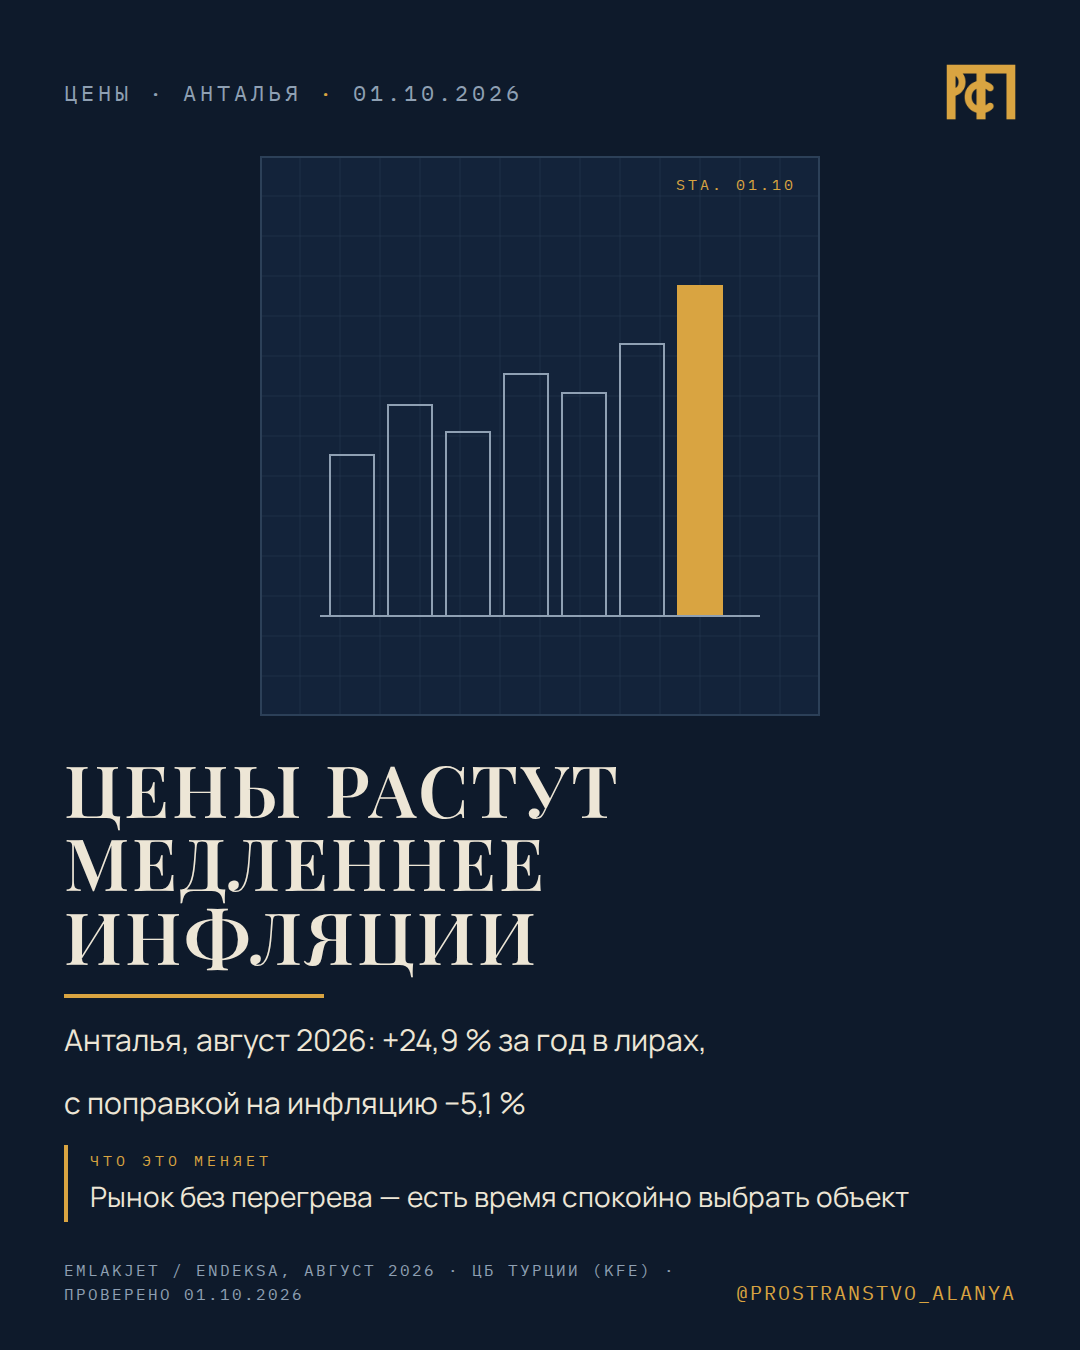
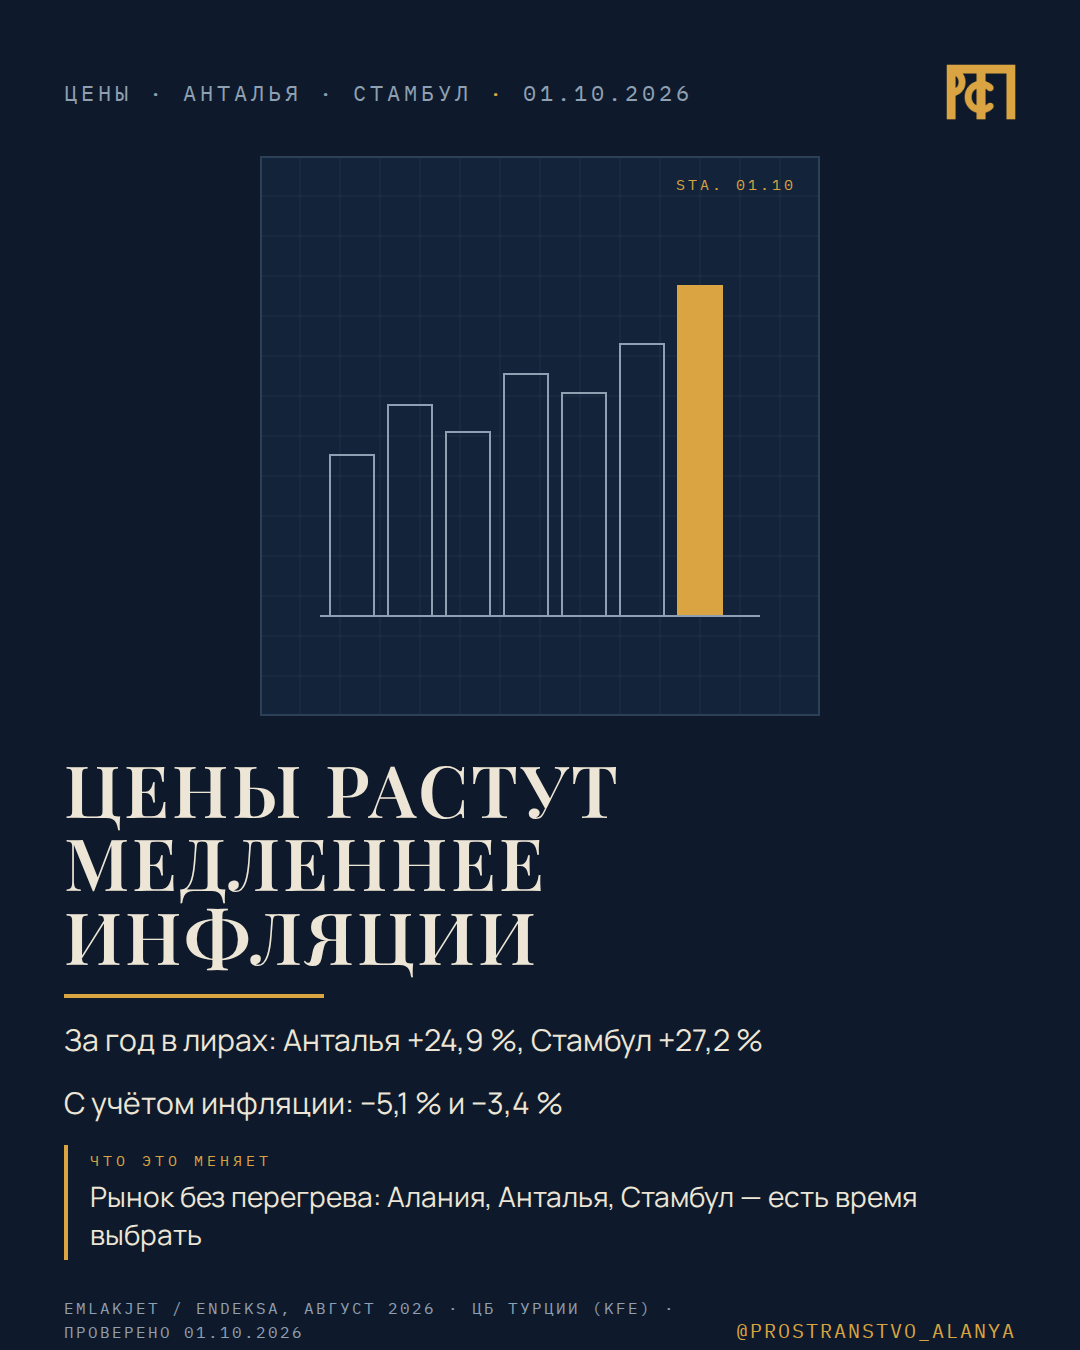
Карточка: цены и инфляция — добавлен Стамбул

diff --git a/turkey-news/nakopitel.md b/turkey-news/nakopitel.md
@@ -9,7 +9,7 @@
 
 | Дата | Тема поста | Карточка | Первоисточник |
 |---|---|---|---|
-| 01.10.2026 | Цены на жильё растут медленнее инфляции: Анталья, август 2026 — +24,9 % за год в лирах, −5,1 % реально, средняя цена 6,132 млн TL; Турция по ЦБ (KFE) +23 % / −6,5 % реально | `turkey-cards/posts/2026-10-01-tseny-i-inflyatsiya-*` | Emlakjet/Endeksa, август 2026 — [Foreks 21.09.2026](https://www.foreks.com/haber/detay/6ab115f395016b5817e5d905/PICNEWS/tr/ortalama-konut-satis-fiyati-5-3-milyon-tl-yi-asti-reel-kayip-suruyor-21-09-26/); ЦБ Турции KFE за август (опубл. 16.09.2026) — [Karar](https://www.karar.com/ekonomi-haberleri/tcmb-konut-fiyatlarinda-yillik-artis-yuzde-23-oldu-2072241) |
+| 01.10.2026 | Цены на жильё растут медленнее инфляции: Анталья, август 2026 — +24,9 % за год в лирах, −5,1 % реально, средняя цена 6,132 млн TL; Стамбул +27,2 % / −3,4 % реально (→ 01.10: Стамбул добавлен в пост по просьбе владельца); Турция по ЦБ (KFE) +23 % / −6,5 % реально | `turkey-cards/posts/2026-10-01-tseny-i-inflyatsiya-*` | Emlakjet/Endeksa, август 2026 — [Foreks 21.09.2026](https://www.foreks.com/haber/detay/6ab115f395016b5817e5d905/PICNEWS/tr/ortalama-konut-satis-fiyati-5-3-milyon-tl-yi-asti-reel-kayip-suruyor-21-09-26/); ЦБ Турции KFE за август (опубл. 16.09.2026) — [Karar](https://www.karar.com/ekonomi-haberleri/tcmb-konut-fiyatlarinda-yillik-artis-yuzde-23-oldu-2072241) |
 | 30.09.2026 | Гражданство: отчёт об оценке может готовить любая компания с лицензией SPK (TDUB + TADEBİS), монополия GEDAŞ с 03.2024 снята; порог 400 000 $ без изменений | `turkey-cards/posts/2026-09-30-vybor-otsenshchika-*` | TKGM, изменение циркуляра 2024/2 (олур 28.09.2026; решение Минэкологии № 21900458 от 18.09.2026) — [Memurlar.net, 29.09.2026](https://www.memurlar.net/haber/1179497/yabancilara-vatandaslikta-gedas-zorunlulugu-kalkti.html); текст на tkgm.gov.tr не открылся |
 | 29.09.2026 | Защищённый счёт (Güvenli Ödeme Sistemi) перенесён: обязателен с 01.12.2026, до этого — пилот → 01.10: дата 01.12.2026 закреплена в Resmî Gazete № 33387 (изменение Taşınmaz Ticareti Yönetmeliği); сборы, охват сделок и пилот определит протокол Минторговли, Минэкологии и интегратора — [Alomaliye](https://www.alomaliye.com/2026/10/01/tasinmaz-ticareti-hakkinda-yonetmelikte-degisiklik-01-10-2026/) | `turkey-cards/posts/2026-09-29-oplata-dekabr-*` | Минторговли Турции, заявление 28.09.2026 — [Habertürk/DHA](https://www.haberturk.com/ekonomi/tasinmaz-satislarinda-guvenli-odeme-tarihi-1-aralik-oldu-3915529), [GZT](https://www.gzt.com/ekonomi/tasinmaz-satislarinda-guvenli-odeme-sistemi-1-aralik-2026ya-ertelendi-4264876) |
 | 28.09.2026 | С 01.10.2026 оплата сделки через защищённый счёт (Güvenli Ödeme Sistemi) → 28.09: перенесено на 01.12.2026, см. строку 29.09 | `turkey-cards/posts/2026-09-28-bezopasnaya-oplata-*` | [Минторговли Турции, 26.06.2026](https://ticaret.gov.tr/haberler/tasinmaz-satislarinda-guvenli-odeme-sisteminin-devreye-alinma-tarihi-1-ekim-2026ya-ertelendi) |
